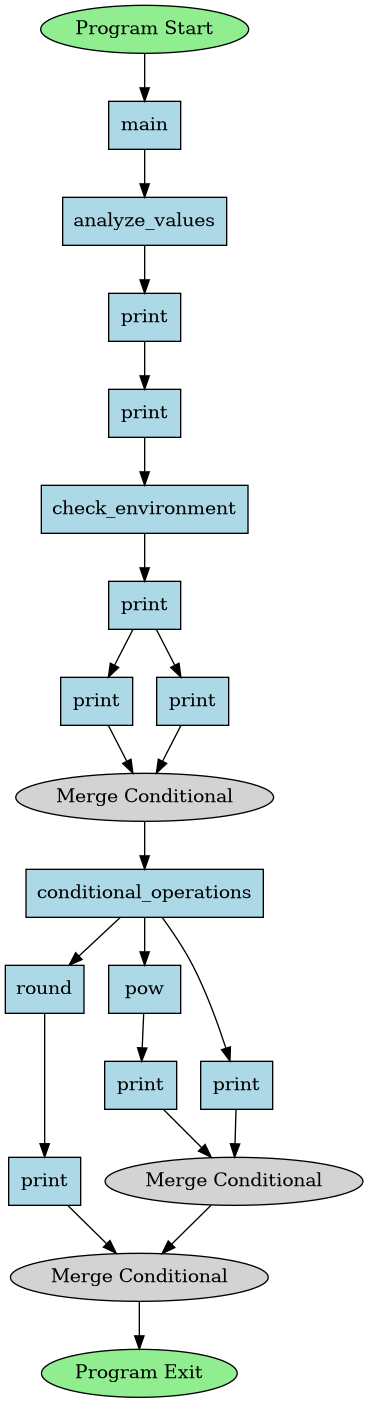
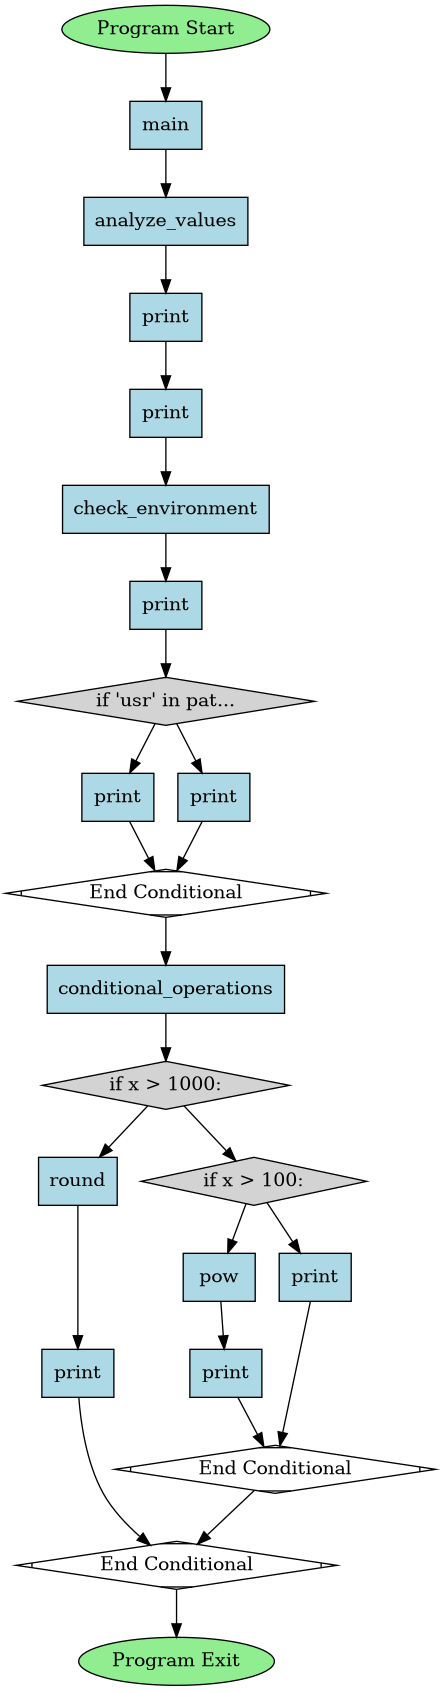
update loop handling and follow CFG standards

Changed region(s): [[0.0, 0.0, 0.9864, 1.0]]

diff --git a/python_call_trace.py b/python_call_trace.py
@@ -2,12 +2,9 @@ import ast
 from typing import Optional, Dict, Set, List
 from flow_node import FlowNode
 
-
 class PythonCallTrace(ast.NodeVisitor):
     def __init__(self):
-        self.function_defs: Dict[
-            str, ast.FunctionDef
-        ] = {}  # Track function definitions
+        self.function_defs: Dict[str, ast.FunctionDef] = {}  # Track function definitions
         self.class_defs: Dict[str, ast.ClassDef] = {}  # Track class definitions
         self.current_node = None
         self.entry_node = None
@@ -19,32 +16,17 @@ class PythonCallTrace(ast.NodeVisitor):
     def __str__(self):
         return f"Functions: {self.function_defs.keys()}\nVisits: {self.visit_log}"
 
-    def create_node(
-        self, node_type: str, label: str, ast_node: Optional[ast.AST] = None
-    ) -> FlowNode:
+    def create_node(self, node_type: str, label: str, ast_node: Optional[ast.AST] = None) -> FlowNode:
         """Create a new flow node"""
         node = FlowNode(node_type, label, ast_node)
-
-        # If self.current_node is initialized, add the new node as a child
         if self.current_node:
             self.current_node.add_child(node)
         self.current_node = node
         return node
 
     def analyze_file(self, file_path: str) -> tuple[FlowNode, FlowNode]:
-        """
-        Analyze the given Python file to trace function and class definitions,
-        and simulate the execution starting from the 'main' function.
-
-        Args:
-            file_path (str): The path to the Python file to be analyzed.
-
-        Returns:
-            tuple[FlowNode, FlowNode]: The entry and end nodes of the simulated execution flow.
-
-        Raises:
-            ValueError: If no entry or end node is found.
-        """
+        """Analyze the given Python file to trace function and class definitions,
+        and simulate the execution starting from the 'main' function."""
         with open(file_path, "r") as file:
             tree = ast.parse(file.read())
 
@@ -78,9 +60,7 @@ class PythonCallTrace(ast.NodeVisitor):
         is_super_call = (
             isinstance(node.func, ast.Name) and node.func.id == "super"
         ) or (
-            isinstance(node.func, ast.Attribute)
-            and isinstance(node.func.value, ast.Name)
-            and node.func.value.id == "super"
+            isinstance(node.func, ast.Attribute) and isinstance(node.func.value, ast.Name) and node.func.value.id == "super"
         )
 
         # Skip logging super() calls
@@ -175,10 +155,7 @@ class PythonCallTrace(ast.NodeVisitor):
         """Simulate execution of a function, including all nested calls"""
         call_signature = f"{func_name}_{id(branch_point)}"
 
-        if (
-            not func_name.endswith(".__init__")
-            or call_signature not in self.visited_calls
-        ):
+        if ( not func_name.endswith(".__init__") or call_signature not in self.visited_calls):
             self.visit_log.append(func_name)
 
         func_node = self.create_node("FUNCTION", f"{func_name}")
@@ -209,59 +186,52 @@ class PythonCallTrace(ast.NodeVisitor):
 
         return func_node
 
-    def simulate_if_statement(self, node: ast.If):
-        """Simulate an if statement execution"""
-        if isinstance(node.test, ast.Call):
-            self.simulate_call(node.test)
-        else:
-            self.simulate_expression(node.test)
+    def trim_text(self, text: str, n: int) -> str:
+        """Trim text to a maximum of 20 characters."""
+        if len(text) > n:
+            return text[:n] + '...'
+        return text
 
-        prev_node = self.current_node
+    def simulate_if_statement(self, node: ast.If):
+        """Simulate an if statement as a branch with condition."""
+        condition_text = self.trim_text(f"if {ast.unparse(node.test)}:", 15)
+        condition_node = self.create_node('CONDITION', condition_text, node)
 
         # Process true branch
         for stmt in node.body:
             self.simulate_statement(stmt)
-        true_end = self.current_node
+        end_true_branch = self.current_node
 
-        # Process false branch
-        self.current_node = prev_node
-        if node.orelse:
-            for stmt in node.orelse:
-                self.simulate_statement(stmt)
+        # Reset to condition node for the false branch
+        self.current_node = condition_node
+        for stmt in node.orelse:
+            self.simulate_statement(stmt)
+        end_false_branch = self.current_node
 
-        # Create merge point if needed
-        if true_end is not None:
-            if true_end.branch_merge_point:
-                self.current_node = true_end.branch_merge_point
-            else:
-                merge_node = self.create_node("MERGE", "Merge Conditional")
-                if self.current_node != merge_node and self.current_node is not None:
-                    self.current_node.add_child(merge_node)
-                if true_end != merge_node:
-                    true_end.add_child(merge_node)
-                self.current_node = merge_node
+        # Create a merge node that both branches connect to
+        merge_node = self.create_node('END_IF', 'End Conditional', node)
+        if end_true_branch:
+            end_true_branch.add_child(merge_node)
+        if end_false_branch:
+            end_false_branch.add_child(merge_node)
+        self.current_node = merge_node
 
     def simulate_loop(self, node: ast.For | ast.While):
-        """Simulate a for loop execution as a branch."""
-        # Backup the current node as the branch point
-        branch_node = self.current_node
-        
-        # Create loop entry node directly attached to the branch node
-        loop_entry = self.create_node('LOOP_START', 'Start of Loop', node)
-        if branch_node:
-            branch_node.add_child(loop_entry)
-        
-        # Set current node to the new loop entry and simulate the loop body
-        self.current_node = loop_entry
+        """Simulate a loop execution as a branch with cyclic paths."""
+        # Create a loop entry node with loop condition as label
+        if isinstance(node, ast.For):
+            loop_text = self.trim_text(f"for {' '.join(ast.unparse(node.target).split())} in {' '.join(ast.unparse(node.iter).split())}:", 25)
+        else:  # ast.While
+            loop_text = self.trim_text(f"while {' '.join(ast.unparse(node.test).split())}:", 25)
+        loop_entry = self.create_node('LOOP_START', loop_text, node)
+
+        # Simulate the loop body
         for stmt in node.body:
             self.simulate_statement(stmt)
-        
-        loop_exit = self.create_node('LOOP_END', 'End of Loop', node)
-        merge_node = self.create_node('MERGE', 'Merge Loop')
-        merge_node.branch_merge_point = loop_exit
-        
-        if branch_node:
-            branch_node.add_child(merge_node)
+
+        if self.current_node:
+            self.current_node.add_child(loop_entry)
+            self.current_node = loop_entry
 
     def simulate_list_or_generator_expression(
         self, node: ast.ListComp | ast.GeneratorExp

diff --git a/graphing.py b/graphing.py
@@ -33,6 +33,26 @@ class GraphBuilder:
                 "fillcolor": "lightblue",
             },
             "CALL": {"shape": "box", "style": "filled", "fillcolor": "lightpink"},
+            "LOOP": {
+                "shape": "ellipse",
+                "style": "filled",
+                "fillcolor": "lightgray",
+            },
+            "CONDITION": {
+                "shape": "diamond",
+                "style": "filled",
+                "fillcolor": "lightgray",
+            },
+            "END_IF": {
+                "shape": "Mdiamond",
+                "style": "filled",
+                "fillcolor": "white",
+            },
+            "END_LOOP": {
+                "shape": "Msquare",
+                "style": "filled",
+                "fillcolor": "white",
+            },
             "MERGE": {
                 "shape": "ellipse",
                 "style": "filled",

diff --git a/README.md b/README.md
@@ -6,14 +6,19 @@ It takes an input a python file and produces an output graph as an image.
 
 ### Usage: 
 
-#### Quick Usage Guide:
-> If you have a python environment setup, you can run the following command
-> ```python 
-> pip install -r requirements.txt
-> python main.py 
-> ```
+<details>
+<summary> Quick Usage Guide: </summary> <br>
+If you have a python environment setup, you can run the following command
 
-#### Detailed Usage Guide:
+```bash
+pip install -r requirements.txt
+python main.py 
+```
+
+</details>
+
+<details>
+<summary> Detailed Usage Guide: </summary> <br>
 In order to use this program, you must have python installed. It is also
 recommended to use python in a virtual environment.
 
@@ -37,9 +42,16 @@ Now your virtual environment is ready. You can run the program by:
 python main.py 
 ```
 If you encounter errors related to `graphviz` or `dot`, you may need to install [graphviz](https://formulae.brew.sh/formula/graphviz).
+</details>
 
-### Assumptions:
+### Assumptions and Design Decisions:
 - The tool expects input source file to have an entry point `main()` function.
+- Each loops body is in a branch, since loops essentially expose the control
+  flow to a conditional which if true, results in execution of body and if
+  false results passes the control flow to rest of the source code.
+- As there are no `do_while` kind of loops in python so we can assume a loop
+  always breaks off from the loop condition which is why the rest of the
+  execution starts from the base of the loop in graphs.
 
 ### Graphs:
 There are sample inputs and outputs in the `input/` and `output/` directory, For a glimpse, I am attaching some of them here. <br>
